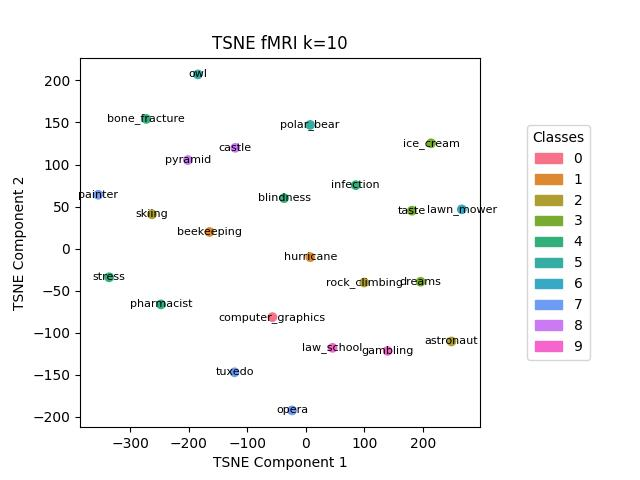
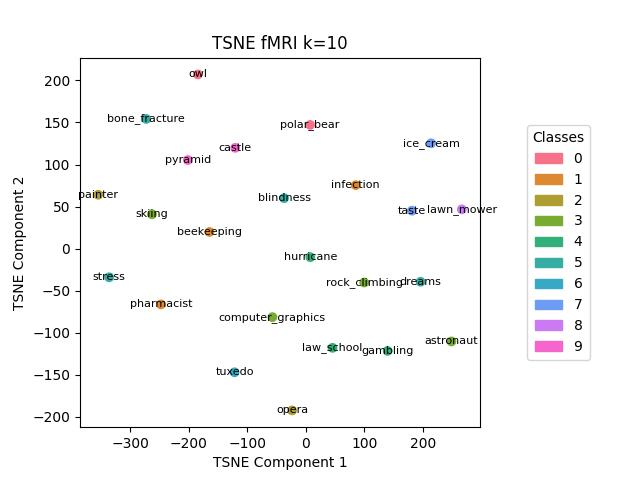
new results

diff --git a/part_3_cluster_and_analyze.py b/part_3_cluster_and_analyze.py
@@ -151,21 +151,25 @@ def analyze_clusters_distances(
     _, avg_vectors_for_analyzing = exp.get_vectors_by_type(
         vector_type=vector_type_for_analyzing
     )
-    # plot clusters
-    avg_X_reduced = reduce_dimension_and_plot(
-        method=method,
-        vectors_matrix=np.array(avg_vectors_for_analyzing),
-    )
-    plot_reduced_vectors_with_labels(
-        method=method,
-        vector_type=vector_type_for_analyzing,
-        k=k,
-        labels=list(category_to_cluster.values()),
-        names=exp.categories_names,
-        X_reduced=avg_X_reduced,
-        plot_names=True,
-        before_after="before",
-    )
+    for avg_vectors, vector_type in zip(
+        [avg_vectors_for_analyzing, avg_vectors_for_clustering],
+        [vector_type_for_analyzing, vector_type_for_clustring],
+    ):
+        # plot clusters
+        avg_X_reduced = reduce_dimension_and_plot(
+            method=method,
+            vectors_matrix=np.array(avg_vectors),
+        )
+        plot_reduced_vectors_with_labels(
+            method=method,
+            vector_type=vector_type,
+            k=k,
+            labels=list(category_to_cluster.values()),
+            names=exp.categories_names,
+            X_reduced=avg_X_reduced,
+            plot_names=True,
+            before_after="before",
+        )
 
     cluster_to_vecs, cluter_to_names = create_cluster_to_vecs(
         category_to_cluster=category_to_cluster,
@@ -219,7 +223,7 @@ if __name__ == "__main__":
     random.seed(42)
     # exp_1 = Experiment(exp_num=1)
     # exp_2 = Experiment(exp_num=2, get_bert_decoding=True)
-    # exp_3 = Experiment(exp_num=3, get_bert_decoding=False)
+    exp_3 = Experiment(exp_num=3, get_bert_decoding=False)
 
     # # explore k meands and reducing dimensions
     # for method in ["TSNE"]:
@@ -251,7 +255,7 @@ if __name__ == "__main__":
     #     # )
     #     analyze_clusters_distances(
     #         exp=exp_3,
-    #         vector_type_for_clustring="Glove",
+    #         vector_type_for_clustring="fMRI",
     #         vector_type_for_analyzing="fMRI",
     #         k=k,
     #         method="TSNE",
